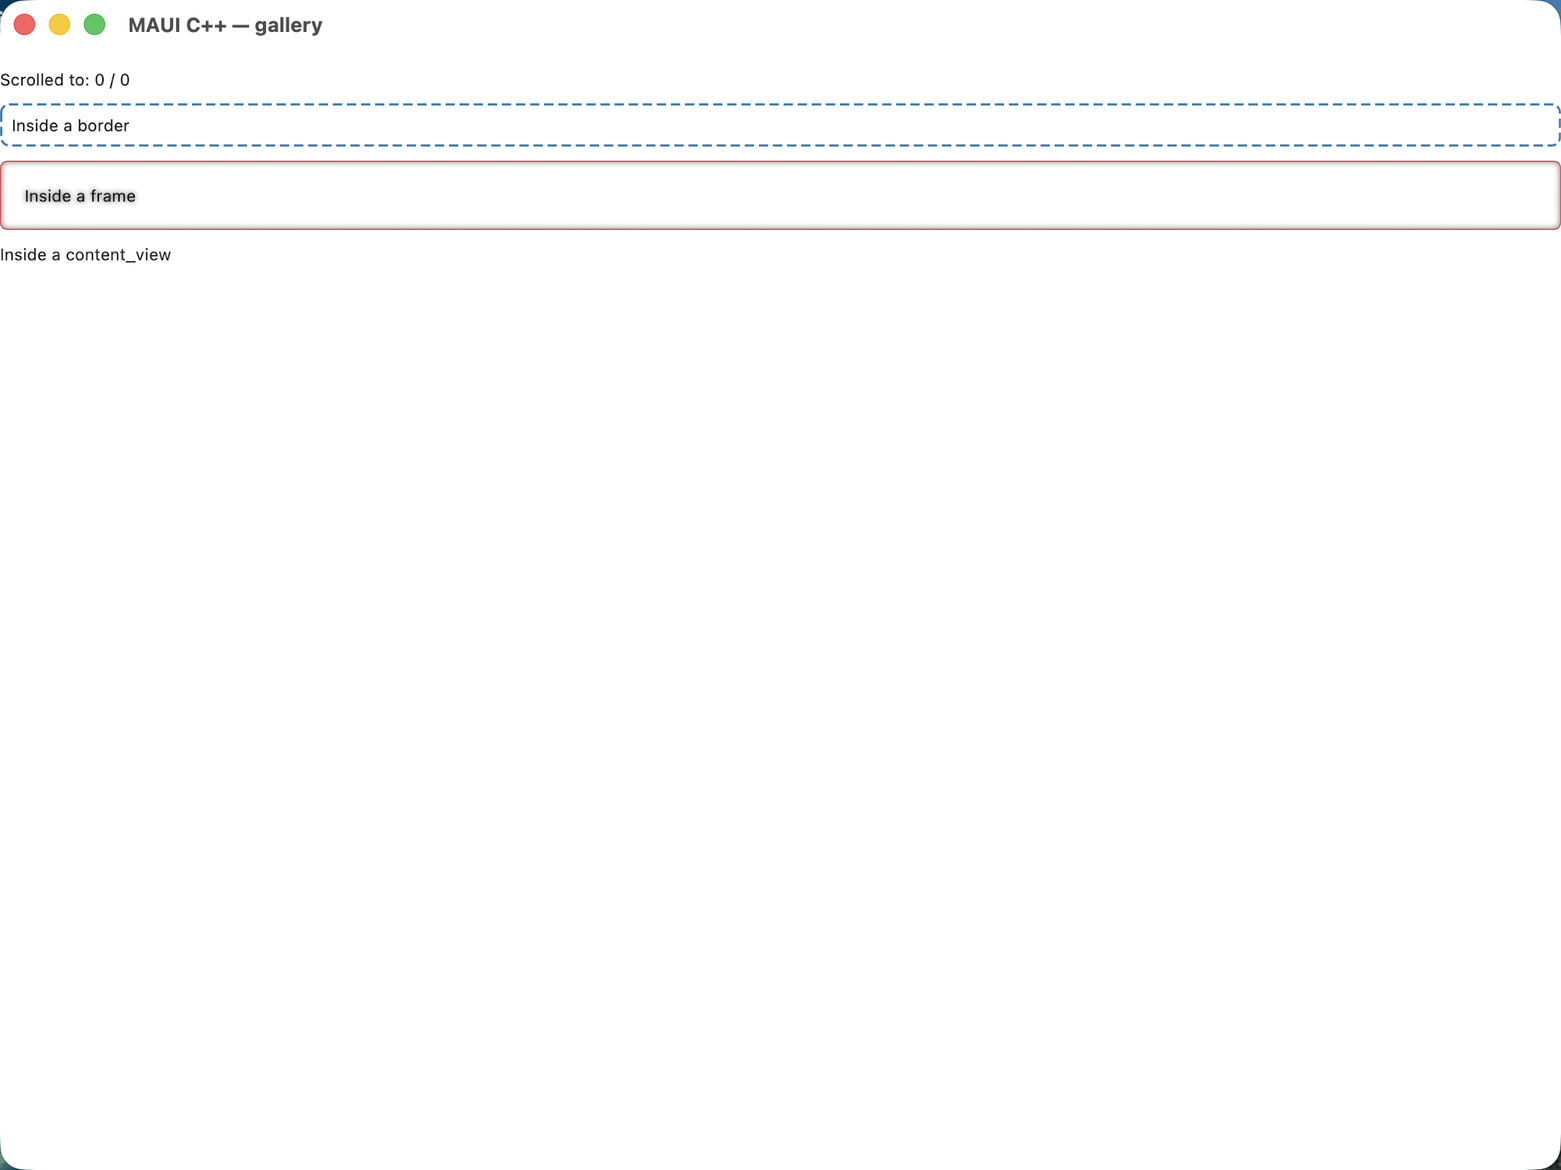
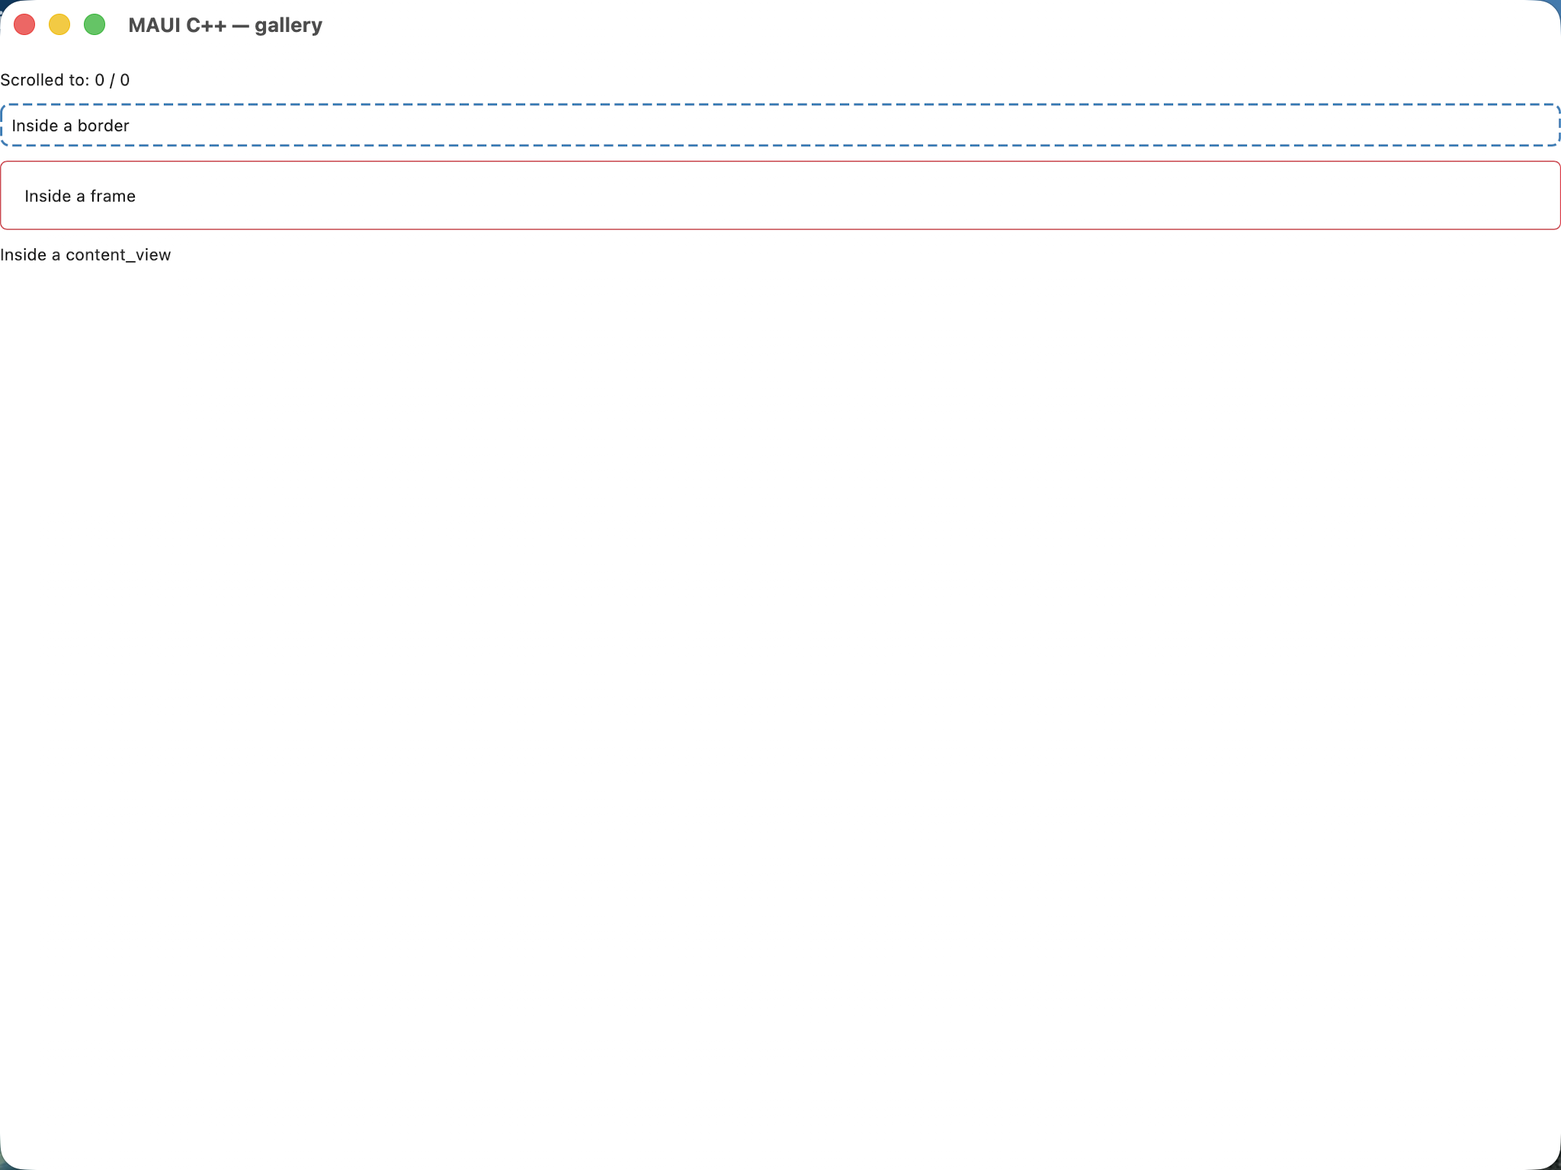
fix(frame): unset Frame renders MAUI's default rounded system-background card
A bare Frame (new Frame { Content = ... }, no properties) rendered invisibly; MAUI's
compatibility FrameRenderer.SetupLayer gives an unset Frame a corner radius of 5 and a
system-background fill. Port those defaults:

- frame::frame() defaults the stroke shape to round_rectangle(5) and sets a
  system_background_paint background; corner_radius_property maps the -1 sentinel to
  round_rectangle(5) (FrameRenderer's -1->5). Explicit CornerRadius>=0 and an explicit
  developer Background still win (last-write-wins), so containers (#DB3344 border /
  corner 6) and custom_swipe_item_view (#2E249E fill) keep their styling.
- New graphics marker ; the Apple visual-ops resolve it to the
  DYNAMIC system background against the VIEW'S trait collection
  ([UIColor.systemBackgroundColor resolvedColorWithTraitCollection:view.traitCollection]
  / AppKit windowBackgroundColor under performAsCurrentDrawingAppearance:), NOT the global
  current trait. This matters because the frame fill lives on a CALayer (for the rounded
  clip) which never auto-resolves dynamic colors: resolving .CGColor against the global
  current trait baked the Mac's dark systemBackground (black) onto the layer, while the
  view's trait inherits the window's forced Light (host_run.mm overrideUserInterfaceStyle)
  and resolves white — matching MAUI. Registers for UITraitUserInterfaceStyle changes so a
  live light/dark flip re-resolves the layer.
[…]

Changed region(s): [[0.0, 0.125, 0.0938, 0.1875], [0.9688, 0.125, 1.0, 0.1562]]

diff --git a/port/cpp/src/platform/ios/ios_visual_ops.hpp b/port/cpp/src/platform/ios/ios_visual_ops.hpp
@@ -55,6 +55,7 @@
 #include "maui/graphics/radial_gradient_paint.hpp"
 #include "maui/graphics/rect.hpp"
 #include "maui/graphics/solid_paint.hpp"
+#include "maui/graphics/system_background_paint.hpp"
 
 #include "ios_conversions.hpp"
 
@@ -428,6 +429,58 @@ namespace maui::platform::ios
         return installed;
     }
 
+    // Resolve UIColor.systemBackground against a SPECIFIC view's trait collection, NOT the global one.
+    // `UIColor.systemBackgroundColor.CGColor` resolves the dynamic color against UITraitCollection.current,
+    // which — outside a view draw/layout callback (apply_background runs at map time) — is the SCREEN's
+    // trait (e.g. the Mac's dark appearance under Catalyst), so it would bake a black CGColor onto the
+    // layer even when the window forces Light (host_run.mm overrideUserInterfaceStyle). The frame fill is
+    // on a CALayer (for the rounded-corner clip), and a CALayer never auto-resolves a dynamic color, so we
+    // resolve MANUALLY against the view's own trait — which inherits the window's forced appearance — the
+    // way MAUI's FrameRenderer relies on its platform view's appearance.
+    inline CGColorRef system_background_cg_color(UIView* view)
+    {
+        UITraitCollection* const traits = view != nil ? view.traitCollection : UITraitCollection.currentTraitCollection;
+        return [UIColor.systemBackgroundColor resolvedColorWithTraitCollection:traits].CGColor;
+    }
+
+    // The associated-object key holding the UITraitUserInterfaceStyle change registration installed for a
+    // system_background_paint fill, so a live light/dark flip re-resolves the layer color (the solid
+    // background is set once at map/update time and is NOT re-applied on layoutSubviews, which only resizes
+    // gradient/image sublayers). A non-marker paint removes the registration.
+    inline const void* k_system_bg_trait_key = &k_system_bg_trait_key;
+
+    // Install (idempotently) or remove the trait-change re-resolution for a system-background fill.
+    inline void set_system_background_trait_tracking(UIView* view, bool track)
+    {
+        if (view == nil)
+        {
+            return;
+        }
+        if (!track)
+        {
+            objc_setAssociatedObject(view, k_system_bg_trait_key, nil, OBJC_ASSOCIATION_RETAIN_NONATOMIC);
+            return;
+        }
+        if (objc_getAssociatedObject(view, k_system_bg_trait_key) != nil)
+        {
+            return; // already registered — keep the single token
+        }
+        if (@available(iOS 17, *))
+        {
+            __weak UIView* const weak_view = view;
+            id<UITraitChangeRegistration> const registration = [view
+                registerForTraitChanges:@[ UITraitUserInterfaceStyle.class ]
+                            withHandler:^(__kindof id<UITraitEnvironment> /*env*/, UITraitCollection* /*previous*/) {
+                              UIView* const strong = weak_view;
+                              if (strong != nil)
+                              {
+                                  strong.layer.backgroundColor = system_background_cg_color(strong);
+                              }
+                            }];
+            objc_setAssociatedObject(view, k_system_bg_trait_key, registration, OBJC_ASSOCIATION_RETAIN_NONATOMIC);
+        }
+    }
+
     inline void apply_background(void* native, const maui::graphics::paint* p)
     {
         if (native == nullptr)
@@ -443,6 +496,7 @@ namespace maui::platform::ios
         // are skipped.
         if (const auto* const image_paint = dynamic_cast<const maui::core::image_source_paint*>(p))
         {
+            set_system_background_trait_tracking(view, false); // leaving any system-background fill
             remove_background_gradient_layer(layer);
             if (apply_image_source_background_layer(layer, image_paint->image_source()))
             {
@@ -458,7 +512,8 @@ namespace maui::platform::ios
         const auto* const gradient = dynamic_cast<const maui::graphics::gradient_paint*>(p);
         if (gradient != nullptr)
         {
-            layer.backgroundColor = nil; // the gradient sublayer carries the fill, not the base color
+            set_system_background_trait_tracking(view, false); // leaving any system-background fill
+            layer.backgroundColor = nil;                       // the gradient sublayer carries the fill
             remove_background_gradient_layer(layer);
 
             CAGradientLayer* const gradient_layer = [CAGradientLayer layer];
@@ -511,9 +566,23 @@ namespace maui::platform::ios
         const auto* const solid = dynamic_cast<const maui::graphics::solid_paint*>(p);
         if (solid == nullptr)
         {
+            set_system_background_trait_tracking(view, false);
             layer.backgroundColor = nil;
             return;
         }
+        // The legacy Frame's default fill: system_background_paint resolves to the DYNAMIC system
+        // background (UIColor.systemBackground = white in light, ~black in dark) against the VIEW's own
+        // trait — the compatibility FrameRenderer.SetupLayer sets ColorExtensions.BackgroundColor (also
+        // UIColor.systemBackground) when BackgroundColor is null. Register for trait changes so a live
+        // light/dark flip re-resolves the layer. On Mac Catalyst this file is the Catalyst handler (aliased
+        // iOS backend), so the frame adapts there too. A plain solid_paint keeps its static color.
+        if (dynamic_cast<const maui::graphics::system_background_paint*>(p) != nullptr)
+        {
+            layer.backgroundColor = system_background_cg_color(view);
+            set_system_background_trait_tracking(view, true);
+            return;
+        }
+        set_system_background_trait_tracking(view, false);
         layer.backgroundColor = to_ui_color(solid->color()).CGColor;
     }
 

diff --git a/port/cpp/src/controls/frame.cpp b/port/cpp/src/controls/frame.cpp
@@ -16,9 +16,9 @@
 #include "maui/core/thickness.hpp"
 #include "maui/graphics/color.hpp"
 #include "maui/graphics/point.hpp"
-#include "maui/graphics/shapes/rectangle.hpp"
 #include "maui/graphics/shapes/round_rectangle.hpp"
 #include "maui/graphics/solid_paint.hpp"
+#include "maui/graphics/system_background_paint.hpp"
 
 namespace maui::controls
 {
@@ -35,6 +35,17 @@ namespace maui::controls
             value->set_offset({0.0, 0.0});
             return value;
         }
+
+        // The compatibility FrameRenderer.SetupLayer maps an UNSET CornerRadius (-1) to 5 at render time
+        // (`if (cornerRadius == -1f) cornerRadius = 5f`). The port folds that renderer default into the
+        // facade's StrokeShape: the sentinel resolves to a round_rectangle(5), not a plain rectangle.
+        constexpr float k_default_corner_radius = 5.0F;
+
+        std::shared_ptr<maui::graphics::i_shape> default_frame_stroke_shape()
+        {
+            return std::make_shared<maui::graphics::shapes::round_rectangle>(
+                static_cast<double>(k_default_corner_radius));
+        }
     } // namespace
 
     frame::frame() : border(padding_property())
@@ -45,6 +56,18 @@ namespace maui::controls
         // HasShadow=true materializes the canned frame shadow.
         set_stroke_thickness(0.0);
         set_shadow(make_frame_shadow());
+
+        // The two FrameRenderer.SetupLayer defaults the border facade otherwise omits, so a bare
+        // `new Frame { Content = … }` renders as MAUI's visible white rounded card (and the shadow has an
+        // opaque body to cast around) instead of an invisible plain rectangle:
+        //   (a) the CornerRadius=-1 sentinel → a round_rectangle(5) StrokeShape (see corner_radius_property);
+        //   (b) a system-background fill when the developer has NOT set a Background. system_background_paint
+        //       is resolved to the DYNAMIC UIColor.systemBackground handler-side (Apple backends, resolved
+        //       against the native view's own trait/appearance) so it tracks light/dark; a developer-set
+        //       Background overwrites it (last-write-wins), so containers_page's #2E249E fill and
+        //       custom_swipe_item_view's explicit fills still win.
+        set_stroke_shape(default_frame_stroke_shape());
+        set_background(std::make_shared<maui::graphics::system_background_paint>());
     }
 
     const maui::core::bindable_property<maui::core::thickness>& frame::padding_property()
@@ -84,15 +107,11 @@ namespace maui::controls
             -1.0F,
             {.property_changed = [](maui::core::bindable_object& owner, const float& /*old*/, const float& value) {
                 auto& self = static_cast<frame&>(owner);
-                if (value >= 0.0F)
-                {
-                    self.set_stroke_shape(
-                        std::make_shared<maui::graphics::shapes::round_rectangle>(static_cast<double>(value)));
-                }
-                else
-                {
-                    self.set_stroke_shape(std::make_shared<maui::graphics::shapes::rectangle>());
-                }
+                // FrameRenderer.SetupLayer maps the -1 sentinel to 5 at render time, so BOTH the default
+                // AND an explicit CornerRadius=-1 render as a round_rectangle(5) — not a plain rectangle.
+                const double radius =
+                    value >= 0.0F ? static_cast<double>(value) : static_cast<double>(k_default_corner_radius);
+                self.set_stroke_shape(std::make_shared<maui::graphics::shapes::round_rectangle>(radius));
             }}};
         return descriptor;
     }

diff --git a/port/cpp/tests/controls/frame_tests.cpp b/port/cpp/tests/controls/frame_tests.cpp
@@ -26,6 +26,8 @@
 #include "maui/graphics/rect.hpp"
 #include "maui/graphics/shapes/round_rectangle.hpp"
 #include "maui/graphics/size.hpp"
+#include "maui/graphics/solid_paint.hpp"
+#include "maui/graphics/system_background_paint.hpp"
 #include "tests/layouts/layout_test_helpers.hpp"
 #include <gtest/gtest.h>
 
@@ -48,8 +50,37 @@ namespace
         EXPECT_EQ(view.content(), nullptr);
         EXPECT_EQ(view.padding(), thickness(20, 20, 20, 20));
         EXPECT_FALSE(view.border_color().has_value());
-        EXPECT_EQ(view.corner_radius(), -1.0F);
+        EXPECT_EQ(view.corner_radius(), -1.0F); // the CornerRadius bindable stays at the -1 sentinel
         EXPECT_TRUE(view.has_shadow());
+    }
+
+    // FrameRenderer.SetupLayer gives an UNSET Frame two defaults the port folds into the facade so a bare
+    // `new Frame { Content = … }` renders as MAUI's visible white rounded card, not an invisible plain
+    // rectangle: (a) the -1 CornerRadius sentinel resolves to a round_rectangle(5) StrokeShape, and (b)
+    // an unset Background gets the system-background fill (system_background_paint, resolved to the
+    // dynamic UIColor.systemBackground handler-side). corner_radius() itself still reads the -1 sentinel.
+    TEST(frame, unset_defaults_render_a_rounded_system_background_card)
+    {
+        const frame view;
+
+        auto* rounded = dynamic_cast<maui::graphics::shapes::round_rectangle*>(view.shape());
+        ASSERT_NE(rounded, nullptr); // NOT a plain rectangle — the -1 sentinel renders as radius 5
+        EXPECT_EQ(rounded->corner_radius().top_left, 5.0);
+
+        ASSERT_NE(view.background(), nullptr);
+        EXPECT_NE(dynamic_cast<maui::graphics::system_background_paint*>(view.background()), nullptr);
+    }
+
+    // A developer-set Background must overwrite the default system-background fill (last-write-wins),
+    // exactly as containers_page (#2E249E fill) and custom_swipe_item_view rely on.
+    TEST(frame, developer_background_overrides_the_default_system_fill)
+    {
+        frame view;
+        auto fill = std::make_shared<maui::graphics::solid_paint>(color(0.18F, 0.14F, 0.62F));
+        view.set_background(fill);
+
+        EXPECT_EQ(view.background(), fill.get());
+        EXPECT_EQ(dynamic_cast<maui::graphics::system_background_paint*>(view.background()), nullptr);
     }
 
     TEST(frame, set_and_replace_child_parents) // C# TestSetChild / TestReplaceChild
@@ -133,8 +164,13 @@ namespace
         ASSERT_NE(rounded, nullptr);
         EXPECT_EQ(rounded->corner_radius().top_left, 8.0);
 
-        view.set_corner_radius(-1.0F); // back to the sentinel -> the plain rectangle
-        EXPECT_EQ(dynamic_cast<maui::graphics::shapes::round_rectangle*>(view.shape()), nullptr);
+        // Back to the -1 sentinel: FrameRenderer.SetupLayer maps -1 -> 5 at render time, so the shape is
+        // a round_rectangle(5), NOT a plain rectangle (the prior assertion encoded the invisible-frame
+        // bug — an unset/-1 Frame renders as a 5pt rounded card in MAUI).
+        view.set_corner_radius(-1.0F);
+        auto* sentinel_rounded = dynamic_cast<maui::graphics::shapes::round_rectangle*>(view.shape());
+        ASSERT_NE(sentinel_rounded, nullptr);
+        EXPECT_EQ(sentinel_rounded->corner_radius().top_left, 5.0);
     }
 
     TEST(frame, corner_radius_validates_like_csharp)

diff --git a/port/cpp/include/maui/graphics/system_background_paint.hpp b/port/cpp/include/maui/graphics/system_background_paint.hpp
@@ -1,0 +1,44 @@
+#pragma once
+// maui::graphics::system_background_paint  <=  (no direct C# type — models UIColor.SystemBackground /
+// ColorExtensions.BackgroundColor as a paint kind)
+//
+// A marker paint used ONLY as the legacy Frame's default background fill when the developer has not set
+// a BackgroundColor. It exists because the port's `color` value type is a plain RGBA and cannot carry a
+// "dynamic system color" that adapts to light/dark; instead this typed paint lets each backend's
+// apply_background resolve it to the platform's *dynamic* system-background color HANDLER-SIDE:
+//   - iOS / Mac Catalyst → UIColor.systemBackground, resolved against the native VIEW's traitCollection,
+//   - macOS AppKit       → NSColor.windowBackgroundColor, resolved against the view's effectiveAppearance,
+//   - headless / Android → its static fallback color (opaque white, the light-mode value).
+// This mirrors the compatibility FrameRenderer.SetupLayer, which fills an UNSET Frame's layer with
+// ColorExtensions.BackgroundColor (= the dynamic system background) when BackgroundColor is null.
+//
+// IMPORTANT (why per-VIEW resolution, not the bare CGColor accessor): UIColor.CGColor resolves a dynamic
+// color against the GLOBAL UITraitCollection.current, which outside a view draw/layout callback is the
+// screen's trait (e.g. the Mac's dark appearance) — baking the WRONG (dark) CGColor onto the layer. The
+// frame's fill lives on a CALayer (needed for the rounded-corner clip), and a CALayer never auto-resolves
+// a dynamic color per-view, so apply_background must resolve MANUALLY against the view's trait — exactly
+// as MAUI's FrameRenderer relies on the platform view's own appearance.
+//
+// It derives solid_paint so backends WITHOUT a dynamic-color mechanism (headless, Android, and anything
+// that has not been taught the marker) still get a sensible opaque-white solid fill for free; only the
+// Apple backends override the resolution to the adapting dynamic color via a dynamic_cast to this type.
+
+#include "maui/graphics/color.hpp"
+#include "maui/graphics/solid_paint.hpp"
+
+namespace maui::graphics
+{
+    class system_background_paint : public solid_paint
+    {
+    public:
+        // The static fallback is opaque white — the light-mode value of UIColor.systemBackground — so a
+        // backend that does not special-case this type renders a white card (correct in light mode).
+        system_background_paint();
+
+    private:
+        // Out-of-line key function: pins this polymorphic type's vtable/type_info to one TU so the
+        // cross-library dynamic_cast in the Apple backends' apply_background is reliable and RTTI is not
+        // duplicated per include. (Not an override — a dedicated anchor virtual on this leaf type.)
+        virtual void anchor();
+    };
+} // namespace maui::graphics

diff --git a/port/cpp/src/platform/apple/apple_visual_ops.hpp b/port/cpp/src/platform/apple/apple_visual_ops.hpp
@@ -49,6 +49,7 @@
 #include "maui/graphics/radial_gradient_paint.hpp"
 #include "maui/graphics/rect.hpp"
 #include "maui/graphics/solid_paint.hpp"
+#include "maui/graphics/system_background_paint.hpp"
 
 #include "apple_conversions.hpp"
 
@@ -287,6 +288,25 @@ namespace maui::platform::apple
         return installed;
     }
 
+    // Resolve NSColor.windowBackgroundColor against a SPECIFIC view's appearance, NOT the global one.
+    // A dynamic NSColor only resolves to a concrete CGColor within a drawing appearance context; taken
+    // outside one it uses the app's current appearance, which can differ from the view's window. The frame
+    // fill lives on a CALayer (for the rounded-corner clip) and never auto-resolves, so evaluate the
+    // CGColor inside the view's effectiveAppearance — the AppKit analog of iOS resolvedColorWithTraitCollection.
+    inline CGColorRef system_background_cg_color(NSView* view)
+    {
+        NSColor* const dynamic = NSColor.windowBackgroundColor;
+        __block CGColorRef resolved = nullptr;
+        NSAppearance* const appearance = view != nil ? view.effectiveAppearance : NSAppearance.currentDrawingAppearance;
+        if (appearance != nil)
+        {
+            [appearance performAsCurrentDrawingAppearance:^{
+              resolved = dynamic.CGColor; // resolved against the view's appearance (light/dark)
+            }];
+        }
+        return resolved != nullptr ? resolved : dynamic.CGColor;
+    }
+
     inline void apply_background(void* native, const maui::graphics::paint* p)
     {
         if (native == nullptr)
@@ -365,6 +385,14 @@ namespace maui::platform::apple
         if (solid == nullptr)
         {
             layer.backgroundColor = nil;
+            return;
+        }
+        // The legacy Frame's default fill: resolve system_background_paint to the DYNAMIC AppKit window
+        // background against the view's own appearance so the frame card tracks light/dark, mirroring the
+        // iOS UIColor.systemBackground resolution (see ios_visual_ops). A plain solid_paint keeps its color.
+        if (dynamic_cast<const maui::graphics::system_background_paint*>(p) != nullptr)
+        {
+            layer.backgroundColor = system_background_cg_color(view);
             return;
         }
         layer.backgroundColor = to_ns_color(solid->color()).CGColor;

diff --git a/port/cpp/tests/controls/border_apple_tests.mm b/port/cpp/tests/controls/border_apple_tests.mm
@@ -143,7 +143,12 @@ namespace
     TEST_F(apple_border_seam, frame_facade_rides_the_same_machinery)
     {
         frame view;
-        view.set_border_color(color(0.0F, 0.0F, 0.0F));
+        // A clearly-set (non-default) border color. NB: color's value-type default is opaque BLACK, which
+        // is also border_color_property's default, so set_border_color(0,0,0) collides with the unset
+        // sentinel (property::set skips propertyChanged when value == default) and would NOT materialize
+        // the stroke — the documented unset-color-sentinel collision. Use a distinct color so the facade's
+        // BorderColor -> 1px stroke translation actually fires (which is what this test exercises).
+        view.set_border_color(color(0.86F, 0.20F, 0.27F));
         auto handler = std::make_shared<border_handler>();
         view.set_handler(handler);
         view.arrange(rect(0, 0, 120, 60));

diff --git a/port/cpp/tests/controls/border_ios_tests.mm b/port/cpp/tests/controls/border_ios_tests.mm
@@ -156,7 +156,12 @@ namespace
     TEST(ios_border_seam, frame_facade_rides_the_same_machinery)
     {
         frame view;
-        view.set_border_color(color(0.0F, 0.0F, 0.0F));
+        // A clearly-set (non-default) border color. NB: color's value-type default is opaque BLACK, which
+        // is also border_color_property's default, so set_border_color(0,0,0) collides with the unset
+        // sentinel (property::set skips propertyChanged when value == default) and would NOT materialize
+        // the stroke — the documented unset-color-sentinel collision. Use a distinct color so the facade's
+        // BorderColor -> 1px stroke translation actually fires (which is what this test exercises).
+        view.set_border_color(color(0.86F, 0.20F, 0.27F));
         auto handler = std::make_shared<border_handler>();
         view.set_handler(handler);
         view.arrange(rect(0, 0, 120, 60));

diff --git a/port/cpp/src/graphics/system_background_paint.cpp b/port/cpp/src/graphics/system_background_paint.cpp
@@ -1,0 +1,19 @@
+// maui::graphics::system_background_paint — out-of-line definitions. See system_background_paint.hpp.
+// The static fallback color is opaque white (the light-mode value of UIColor.systemBackground); the
+// Apple backends override this to the dynamic system background via a dynamic_cast to this type.
+
+#include "maui/graphics/system_background_paint.hpp"
+
+#include "maui/graphics/color.hpp"
+
+namespace maui::graphics
+{
+    system_background_paint::system_background_paint()
+        : solid_paint(maui::graphics::color(1.0F, 1.0F, 1.0F, 1.0F)) // opaque white light-mode fallback
+    {
+    }
+
+    void system_background_paint::anchor()
+    {
+    }
+} // namespace maui::graphics
